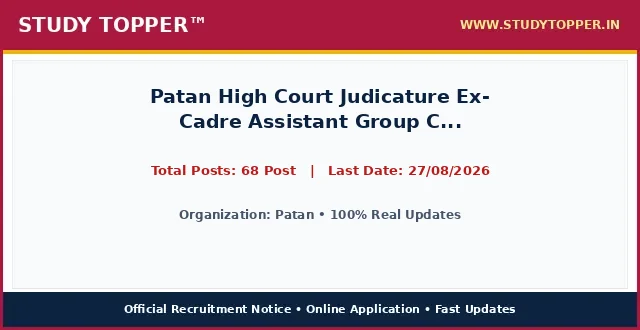
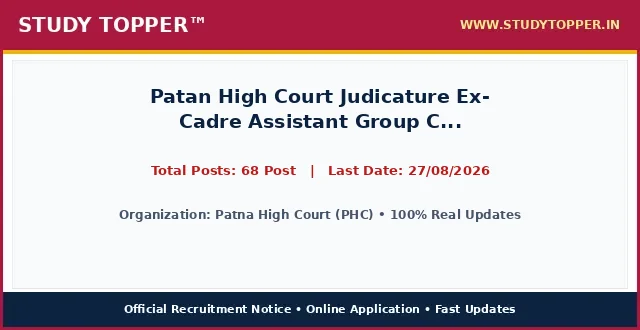
chore(lifecycle): daily auto-sort vacancies and update active dates

Changed region(s): [[0.1875, 0.6364, 0.8125, 0.6667]]

diff --git a/index.html b/index.html
@@ -1615,7 +1615,7 @@ ul.wp-block-latest-posts a:hover {
 </div></div></div>
 <div class="gb-grid-column gb-grid-column-c7488d9a"><div class="gb-container gb-container-c7488d9a"><div class="gb-inside-container">
 <p class="gb-headline gb-headline-5badebdf gb-headline-text" style="background-color:#ab183d !important; color:#ffffff !important; text-align:center; font-weight:700; padding:6px 0;">Latest Jobs</p>
-<ul class="wp-block-latest-posts__list 6colm_box wp-block-latest-posts"><li><a class="wp-block-latest-posts__post-title" href="/up-sewayojan-vibhag-mts-august26/">UP Sewayojan Vibhag Recruitment 2026 Multi Tasking Staff MTS Apply Online for 45 Post - <span class="agy-blinking-badge agy-urgent-blink">Last Date Today!</span></a></li><li><a class="wp-block-latest-posts__post-title" href="/mpesb-group-2-sub-group-4-patwari-2026/">MPESB Group-2 Sub Group-4 Patwari Recruitment 2026 - <span class="agy-blinking-badge agy-urgent-blink">1 Days Left!</span></a></li><li><a class="wp-block-latest-posts__post-title" href="/mpesb-group2-subgroup-4-aug26/">MPESB MP Group 2 Sub Group 4 Patwari and Other Post Combined Recruitment Test – 2026 Apply Online 2106 Post - <span class="agy-blinking-badge agy-urgent-blink">1 Days Left!</span></a></li><li><a class="wp-block-latest-posts__post-title" href="/atal-awasiya-lucknow-aug2026/">Uttar Pradesh UP Atal Awasiya Vidyalaya Lucknow Outsourcing Recruitment Application Form 2026 - <span class="agy-blinking-badge agy-urgent-blink">2 Days Left!</span></a></li><li><a class="wp-block-latest-posts__post-title" href="/upsssc-paramedical-fsl-15-exam-2026/">UPSSSC Forensic Science Laboratory Main Examination 2026 Apply Online for 208 Post - <span class="agy-blinking-badge agy-urgent-blink">2 Days Left!</span></a></li><li><a class="wp-block-latest-posts__post-title" href="/rcfl-management-trainee-august26/">RCFL Management Trainee Recruitment 2026 Apply Online for 94 Post - <span class="agy-blinking-badge agy-urgent-blink">2 Days Left!</span></a></li><li><a class="wp-block-latest-posts__post-title" href="/up-meerut-ecce-educator-august26/">UP Basic Education ECCE Educator Meerut Outsourcing Recruitment 2026 Apply Online For 108 Post - <span class="agy-blinking-badge agy-urgent-blink">3 Days Left!</span></a></li><li><a class="wp-block-latest-posts__post-title" href="/rvunl-june26/">Rajasthan RVUNL for JE, Junior Accountant &amp; Junior Assistant/ Commercial Assistant-II Common Recruitment 2026 Apply Online for 2005 Post - <span class="agy-blinking-badge agy-urgent-blink">3 Days Left!</span></a></li><li><a class="wp-block-latest-posts__post-title" href="/rrvunl-je-junior-assistant-2026/">RRVUNL JE, Junior Assistant Recruitment 2026 - <span class="agy-blinking-badge agy-urgent-blink">3 Days Left!</span></a></li><li><a class="wp-block-latest-posts__post-title" href="/up-bijnor-ecce-educator-july26/">Uttar Pradesh UP Basic Education Bijnor ECCE Educator Outsourcing Recruitment 2026 Apply Online For 159 Post - <span class="agy-blinking-badge agy-extended-blink">Date Extended!</span></a></li><li><a class="wp-block-latest-posts__post-title" href="/upsrtc-bus-conductor-august26/">UPSRTC उत्तर प्रदेश राज्य सड़क परिवहन निगम Bus Conductor Gonda, Bahraich, Balrampur Outsourcing Recruitment Online Form 2026</a></li><li><a class="wp-block-latest-posts__post-title" href="/sbi-clerk-backlog-aug26/">State Bank of India SBI Junior Associates Clerk Recruitment 2026 : Apply Online for 1538 Backlog Post</a></li></ul>
+<ul class="wp-block-latest-posts__list 6colm_box wp-block-latest-posts"><li><a class="wp-block-latest-posts__post-title" href="/up-sewayojan-vibhag-mts-august26/">UP Sewayojan Vibhag Recruitment 2026 Multi Tasking Staff MTS Apply Online for 45 Post - <span class="agy-blinking-badge agy-urgent-blink">Last Date Today!</span></a></li><li><a class="wp-block-latest-posts__post-title" href="/mpesb-group-2-sub-group-4-patwari-2026/">MPESB Group-2 Sub Group-4 Patwari Recruitment 2026 - <span class="agy-blinking-badge agy-urgent-blink">1 Days Left!</span></a></li><li><a class="wp-block-latest-posts__post-title" href="/mpesb-group2-subgroup-4-aug26/">MPESB MP Group 2 Sub Group 4 Patwari and Other Post Combined Recruitment Test – 2026 Apply Online 2106 Post - <span class="agy-blinking-badge agy-urgent-blink">1 Days Left!</span></a></li><li><a class="wp-block-latest-posts__post-title" href="/atal-awasiya-lucknow-aug2026/">Uttar Pradesh UP Atal Awasiya Vidyalaya Lucknow Outsourcing Recruitment Application Form 2026 - <span class="agy-blinking-badge agy-urgent-blink">2 Days Left!</span></a></li><li><a class="wp-block-latest-posts__post-title" href="/upsssc-paramedical-fsl-15-exam-2026/">UPSSSC Forensic Science Laboratory Main Examination 2026 Apply Online for 208 Post - <span class="agy-blinking-badge agy-urgent-blink">2 Days Left!</span></a></li><li><a class="wp-block-latest-posts__post-title" href="/rcfl-management-trainee-august26/">RCFL Management Trainee Recruitment 2026 Apply Online for 94 Post - <span class="agy-blinking-badge agy-urgent-blink">2 Days Left!</span></a></li><li><a class="wp-block-latest-posts__post-title" href="/up-meerut-ecce-educator-august26/">UP Basic Education ECCE Educator Meerut Outsourcing Recruitment 2026 Apply Online For 108 Post - <span class="agy-blinking-badge agy-urgent-blink">3 Days Left!</span></a></li><li><a class="wp-block-latest-posts__post-title" href="/rvunl-june26/">Rajasthan RVUNL for JE, Junior Accountant &amp; Junior Assistant/ Commercial Assistant-II Common Recruitment 2026 Apply Online for 2005 Post - <span class="agy-blinking-badge agy-urgent-blink">3 Days Left!</span></a></li><li><a class="wp-block-latest-posts__post-title" href="/rrvunl-je-junior-assistant-2026/">RRVUNL JE, Junior Assistant Recruitment 2026 - <span class="agy-blinking-badge agy-urgent-blink">3 Days Left!</span></a></li><li><a class="wp-block-latest-posts__post-title" href="/up-bijnor-ecce-educator-july26/">Uttar Pradesh UP Basic Education Bijnor ECCE Educator Outsourcing Recruitment 2026 Apply Online For 159 Post - <span class="agy-blinking-badge agy-extended-blink">Date Extended!</span></a></li><li><a class="wp-block-latest-posts__post-title" href="/upsrtc-bus-conductor-august26/">UPSRTC उत्तर प्रदेश राज्य सड़क परिवहन निगम Bus Conductor Gonda, Bahraich, Balrampur Outsourcing Recruitment Online Form 2026</a></li><li><a class="wp-block-latest-posts__post-title" href="/patna-high-court-july26/">Patan High Court Judicature Ex-Cadre Assistant Group C Recruitment 2026 Apply Online for 68 Post</a></li></ul>
 <div class="wp-block-buttons is-content-justification-right is-layout-flex wp-container-core-buttons-is-layout-89b4c9e9 wp-block-buttons-is-layout-flex">
 <div class="wp-block-button"><a class="wp-block-button__link has-base-color has-accent-2-background-color has-text-color has-background has-link-color wp-element-button" href="/latest-jobs/" rel="noreferrer noopener" target="_blank"><strong>View More</strong></a></div>
 </div>

diff --git a/pages/index.html b/pages/index.html
@@ -1615,7 +1615,7 @@ ul.wp-block-latest-posts a:hover {
 </div></div></div>
 <div class="gb-grid-column gb-grid-column-c7488d9a"><div class="gb-container gb-container-c7488d9a"><div class="gb-inside-container">
 <p class="gb-headline gb-headline-5badebdf gb-headline-text" style="background-color:#ab183d !important; color:#ffffff !important; text-align:center; font-weight:700; padding:6px 0;">Latest Jobs</p>
-<ul class="wp-block-latest-posts__list 6colm_box wp-block-latest-posts"><li><a class="wp-block-latest-posts__post-title" href="/up-sewayojan-vibhag-mts-august26/">UP Sewayojan Vibhag Recruitment 2026 Multi Tasking Staff MTS Apply Online for 45 Post - <span class="agy-blinking-badge agy-urgent-blink">Last Date Today!</span></a></li><li><a class="wp-block-latest-posts__post-title" href="/mpesb-group-2-sub-group-4-patwari-2026/">MPESB Group-2 Sub Group-4 Patwari Recruitment 2026 - <span class="agy-blinking-badge agy-urgent-blink">1 Days Left!</span></a></li><li><a class="wp-block-latest-posts__post-title" href="/mpesb-group2-subgroup-4-aug26/">MPESB MP Group 2 Sub Group 4 Patwari and Other Post Combined Recruitment Test – 2026 Apply Online 2106 Post - <span class="agy-blinking-badge agy-urgent-blink">1 Days Left!</span></a></li><li><a class="wp-block-latest-posts__post-title" href="/atal-awasiya-lucknow-aug2026/">Uttar Pradesh UP Atal Awasiya Vidyalaya Lucknow Outsourcing Recruitment Application Form 2026 - <span class="agy-blinking-badge agy-urgent-blink">2 Days Left!</span></a></li><li><a class="wp-block-latest-posts__post-title" href="/upsssc-paramedical-fsl-15-exam-2026/">UPSSSC Forensic Science Laboratory Main Examination 2026 Apply Online for 208 Post - <span class="agy-blinking-badge agy-urgent-blink">2 Days Left!</span></a></li><li><a class="wp-block-latest-posts__post-title" href="/rcfl-management-trainee-august26/">RCFL Management Trainee Recruitment 2026 Apply Online for 94 Post - <span class="agy-blinking-badge agy-urgent-blink">2 Days Left!</span></a></li><li><a class="wp-block-latest-posts__post-title" href="/up-meerut-ecce-educator-august26/">UP Basic Education ECCE Educator Meerut Outsourcing Recruitment 2026 Apply Online For 108 Post - <span class="agy-blinking-badge agy-urgent-blink">3 Days Left!</span></a></li><li><a class="wp-block-latest-posts__post-title" href="/rvunl-june26/">Rajasthan RVUNL for JE, Junior Accountant &amp; Junior Assistant/ Commercial Assistant-II Common Recruitment 2026 Apply Online for 2005 Post - <span class="agy-blinking-badge agy-urgent-blink">3 Days Left!</span></a></li><li><a class="wp-block-latest-posts__post-title" href="/rrvunl-je-junior-assistant-2026/">RRVUNL JE, Junior Assistant Recruitment 2026 - <span class="agy-blinking-badge agy-urgent-blink">3 Days Left!</span></a></li><li><a class="wp-block-latest-posts__post-title" href="/up-bijnor-ecce-educator-july26/">Uttar Pradesh UP Basic Education Bijnor ECCE Educator Outsourcing Recruitment 2026 Apply Online For 159 Post - <span class="agy-blinking-badge agy-extended-blink">Date Extended!</span></a></li><li><a class="wp-block-latest-posts__post-title" href="/upsrtc-bus-conductor-august26/">UPSRTC उत्तर प्रदेश राज्य सड़क परिवहन निगम Bus Conductor Gonda, Bahraich, Balrampur Outsourcing Recruitment Online Form 2026</a></li><li><a class="wp-block-latest-posts__post-title" href="/sbi-clerk-backlog-aug26/">State Bank of India SBI Junior Associates Clerk Recruitment 2026 : Apply Online for 1538 Backlog Post</a></li></ul>
+<ul class="wp-block-latest-posts__list 6colm_box wp-block-latest-posts"><li><a class="wp-block-latest-posts__post-title" href="/up-sewayojan-vibhag-mts-august26/">UP Sewayojan Vibhag Recruitment 2026 Multi Tasking Staff MTS Apply Online for 45 Post - <span class="agy-blinking-badge agy-urgent-blink">Last Date Today!</span></a></li><li><a class="wp-block-latest-posts__post-title" href="/mpesb-group-2-sub-group-4-patwari-2026/">MPESB Group-2 Sub Group-4 Patwari Recruitment 2026 - <span class="agy-blinking-badge agy-urgent-blink">1 Days Left!</span></a></li><li><a class="wp-block-latest-posts__post-title" href="/mpesb-group2-subgroup-4-aug26/">MPESB MP Group 2 Sub Group 4 Patwari and Other Post Combined Recruitment Test – 2026 Apply Online 2106 Post - <span class="agy-blinking-badge agy-urgent-blink">1 Days Left!</span></a></li><li><a class="wp-block-latest-posts__post-title" href="/atal-awasiya-lucknow-aug2026/">Uttar Pradesh UP Atal Awasiya Vidyalaya Lucknow Outsourcing Recruitment Application Form 2026 - <span class="agy-blinking-badge agy-urgent-blink">2 Days Left!</span></a></li><li><a class="wp-block-latest-posts__post-title" href="/upsssc-paramedical-fsl-15-exam-2026/">UPSSSC Forensic Science Laboratory Main Examination 2026 Apply Online for 208 Post - <span class="agy-blinking-badge agy-urgent-blink">2 Days Left!</span></a></li><li><a class="wp-block-latest-posts__post-title" href="/rcfl-management-trainee-august26/">RCFL Management Trainee Recruitment 2026 Apply Online for 94 Post - <span class="agy-blinking-badge agy-urgent-blink">2 Days Left!</span></a></li><li><a class="wp-block-latest-posts__post-title" href="/up-meerut-ecce-educator-august26/">UP Basic Education ECCE Educator Meerut Outsourcing Recruitment 2026 Apply Online For 108 Post - <span class="agy-blinking-badge agy-urgent-blink">3 Days Left!</span></a></li><li><a class="wp-block-latest-posts__post-title" href="/rvunl-june26/">Rajasthan RVUNL for JE, Junior Accountant &amp; Junior Assistant/ Commercial Assistant-II Common Recruitment 2026 Apply Online for 2005 Post - <span class="agy-blinking-badge agy-urgent-blink">3 Days Left!</span></a></li><li><a class="wp-block-latest-posts__post-title" href="/rrvunl-je-junior-assistant-2026/">RRVUNL JE, Junior Assistant Recruitment 2026 - <span class="agy-blinking-badge agy-urgent-blink">3 Days Left!</span></a></li><li><a class="wp-block-latest-posts__post-title" href="/up-bijnor-ecce-educator-july26/">Uttar Pradesh UP Basic Education Bijnor ECCE Educator Outsourcing Recruitment 2026 Apply Online For 159 Post - <span class="agy-blinking-badge agy-extended-blink">Date Extended!</span></a></li><li><a class="wp-block-latest-posts__post-title" href="/upsrtc-bus-conductor-august26/">UPSRTC उत्तर प्रदेश राज्य सड़क परिवहन निगम Bus Conductor Gonda, Bahraich, Balrampur Outsourcing Recruitment Online Form 2026</a></li><li><a class="wp-block-latest-posts__post-title" href="/patna-high-court-july26/">Patan High Court Judicature Ex-Cadre Assistant Group C Recruitment 2026 Apply Online for 68 Post</a></li></ul>
 <div class="wp-block-buttons is-content-justification-right is-layout-flex wp-container-core-buttons-is-layout-89b4c9e9 wp-block-buttons-is-layout-flex">
 <div class="wp-block-button"><a class="wp-block-button__link has-base-color has-accent-2-background-color has-text-color has-background has-link-color wp-element-button" href="/latest-jobs/" rel="noreferrer noopener" target="_blank"><strong>View More</strong></a></div>
 </div>

diff --git a/original_index.html b/original_index.html
@@ -1078,7 +1078,7 @@ ul.wp-block-latest-posts a:hover {
 </div></div></div>
 <div class="gb-grid-column gb-grid-column-c7488d9a"><div class="gb-container gb-container-c7488d9a"><div class="gb-inside-container">
 <p class="gb-headline gb-headline-5badebdf gb-headline-text">Latest Jobs</p>
-<ul class="wp-block-latest-posts__list 6colm_box wp-block-latest-posts"><li><a class="wp-block-latest-posts__post-title" href="/up-sewayojan-vibhag-mts-august26/">UP Sewayojan Vibhag Recruitment 2026 Multi Tasking Staff MTS Apply Online for 45 Post - <span class="agy-blinking-badge agy-urgent-blink">Last Date Today!</span></a></li><li><a class="wp-block-latest-posts__post-title" href="/mpesb-group-2-sub-group-4-patwari-2026/">MPESB Group-2 Sub Group-4 Patwari Recruitment 2026 - <span class="agy-blinking-badge agy-urgent-blink">1 Days Left!</span></a></li><li><a class="wp-block-latest-posts__post-title" href="/mpesb-group2-subgroup-4-aug26/">MPESB MP Group 2 Sub Group 4 Patwari and Other Post Combined Recruitment Test – 2026 Apply Online 2106 Post - <span class="agy-blinking-badge agy-urgent-blink">1 Days Left!</span></a></li><li><a class="wp-block-latest-posts__post-title" href="/atal-awasiya-lucknow-aug2026/">Uttar Pradesh UP Atal Awasiya Vidyalaya Lucknow Outsourcing Recruitment Application Form 2026 - <span class="agy-blinking-badge agy-urgent-blink">2 Days Left!</span></a></li><li><a class="wp-block-latest-posts__post-title" href="/upsssc-paramedical-fsl-15-exam-2026/">UPSSSC Forensic Science Laboratory Main Examination 2026 Apply Online for 208 Post - <span class="agy-blinking-badge agy-urgent-blink">2 Days Left!</span></a></li><li><a class="wp-block-latest-posts__post-title" href="/rcfl-management-trainee-august26/">RCFL Management Trainee Recruitment 2026 Apply Online for 94 Post - <span class="agy-blinking-badge agy-urgent-blink">2 Days Left!</span></a></li><li><a class="wp-block-latest-posts__post-title" href="/up-meerut-ecce-educator-august26/">UP Basic Education ECCE Educator Meerut Outsourcing Recruitment 2026 Apply Online For 108 Post - <span class="agy-blinking-badge agy-urgent-blink">3 Days Left!</span></a></li><li><a class="wp-block-latest-posts__post-title" href="/rvunl-june26/">Rajasthan RVUNL for JE, Junior Accountant &amp; Junior Assistant/ Commercial Assistant-II Common Recruitment 2026 Apply Online for 2005 Post - <span class="agy-blinking-badge agy-urgent-blink">3 Days Left!</span></a></li><li><a class="wp-block-latest-posts__post-title" href="/rrvunl-je-junior-assistant-2026/">RRVUNL JE, Junior Assistant Recruitment 2026 - <span class="agy-blinking-badge agy-urgent-blink">3 Days Left!</span></a></li><li><a class="wp-block-latest-posts__post-title" href="/up-bijnor-ecce-educator-july26/">Uttar Pradesh UP Basic Education Bijnor ECCE Educator Outsourcing Recruitment 2026 Apply Online For 159 Post - <span class="agy-blinking-badge agy-extended-blink">Date Extended!</span></a></li><li><a class="wp-block-latest-posts__post-title" href="/upsrtc-bus-conductor-august26/">UPSRTC उत्तर प्रदेश राज्य सड़क परिवहन निगम Bus Conductor Gonda, Bahraich, Balrampur Outsourcing Recruitment Online Form 2026</a></li><li><a class="wp-block-latest-posts__post-title" href="/sbi-clerk-backlog-aug26/">State Bank of India SBI Junior Associates Clerk Recruitment 2026 : Apply Online for 1538 Backlog Post</a></li></ul>
+<ul class="wp-block-latest-posts__list 6colm_box wp-block-latest-posts"><li><a class="wp-block-latest-posts__post-title" href="/up-sewayojan-vibhag-mts-august26/">UP Sewayojan Vibhag Recruitment 2026 Multi Tasking Staff MTS Apply Online for 45 Post - <span class="agy-blinking-badge agy-urgent-blink">Last Date Today!</span></a></li><li><a class="wp-block-latest-posts__post-title" href="/mpesb-group-2-sub-group-4-patwari-2026/">MPESB Group-2 Sub Group-4 Patwari Recruitment 2026 - <span class="agy-blinking-badge agy-urgent-blink">1 Days Left!</span></a></li><li><a class="wp-block-latest-posts__post-title" href="/mpesb-group2-subgroup-4-aug26/">MPESB MP Group 2 Sub Group 4 Patwari and Other Post Combined Recruitment Test – 2026 Apply Online 2106 Post - <span class="agy-blinking-badge agy-urgent-blink">1 Days Left!</span></a></li><li><a class="wp-block-latest-posts__post-title" href="/atal-awasiya-lucknow-aug2026/">Uttar Pradesh UP Atal Awasiya Vidyalaya Lucknow Outsourcing Recruitment Application Form 2026 - <span class="agy-blinking-badge agy-urgent-blink">2 Days Left!</span></a></li><li><a class="wp-block-latest-posts__post-title" href="/upsssc-paramedical-fsl-15-exam-2026/">UPSSSC Forensic Science Laboratory Main Examination 2026 Apply Online for 208 Post - <span class="agy-blinking-badge agy-urgent-blink">2 Days Left!</span></a></li><li><a class="wp-block-latest-posts__post-title" href="/rcfl-management-trainee-august26/">RCFL Management Trainee Recruitment 2026 Apply Online for 94 Post - <span class="agy-blinking-badge agy-urgent-blink">2 Days Left!</span></a></li><li><a class="wp-block-latest-posts__post-title" href="/up-meerut-ecce-educator-august26/">UP Basic Education ECCE Educator Meerut Outsourcing Recruitment 2026 Apply Online For 108 Post - <span class="agy-blinking-badge agy-urgent-blink">3 Days Left!</span></a></li><li><a class="wp-block-latest-posts__post-title" href="/rvunl-june26/">Rajasthan RVUNL for JE, Junior Accountant &amp; Junior Assistant/ Commercial Assistant-II Common Recruitment 2026 Apply Online for 2005 Post - <span class="agy-blinking-badge agy-urgent-blink">3 Days Left!</span></a></li><li><a class="wp-block-latest-posts__post-title" href="/rrvunl-je-junior-assistant-2026/">RRVUNL JE, Junior Assistant Recruitment 2026 - <span class="agy-blinking-badge agy-urgent-blink">3 Days Left!</span></a></li><li><a class="wp-block-latest-posts__post-title" href="/up-bijnor-ecce-educator-july26/">Uttar Pradesh UP Basic Education Bijnor ECCE Educator Outsourcing Recruitment 2026 Apply Online For 159 Post - <span class="agy-blinking-badge agy-extended-blink">Date Extended!</span></a></li><li><a class="wp-block-latest-posts__post-title" href="/upsrtc-bus-conductor-august26/">UPSRTC उत्तर प्रदेश राज्य सड़क परिवहन निगम Bus Conductor Gonda, Bahraich, Balrampur Outsourcing Recruitment Online Form 2026</a></li><li><a class="wp-block-latest-posts__post-title" href="/patna-high-court-july26/">Patan High Court Judicature Ex-Cadre Assistant Group C Recruitment 2026 Apply Online for 68 Post</a></li></ul>
 <div class="wp-block-buttons is-content-justification-right is-layout-flex wp-container-core-buttons-is-layout-89b4c9e9 wp-block-buttons-is-layout-flex">
 <div class="wp-block-button"><a class="wp-block-button__link has-base-color has-accent-2-background-color has-text-color has-background has-link-color wp-element-button" href="/latest-jobs/" rel="noreferrer noopener" target="_blank"><strong>View More</strong></a></div>
 </div>

diff --git a/pages/patna-high-court-july26.html b/pages/patna-high-court-july26.html
@@ -987,8 +987,8 @@ ul.wp-block-latest-posts a:hover {
 <main class="site-main" id="main">
 <div class="gb-container gb-container-b39c368c">
 <h1 class="gb-headline gb-headline-e52a0102 gb-headline-text" style="font-size: 22px; font-weight: 700; color: #0000cd; text-align: left; margin: 8px 0 4px 0; line-height: 1.3; width: 100%; font-family: '-apple-system, BlinkMacSystemFont, 'Segoe UI', Roboto, 'Helvetica Neue', Arial, sans-serif', Times, serif, Hind, sans-serif;">Patan High Court Judicature Ex-Cadre Assistant Group C Recruitment 2026 Apply Online for 68 Post</h1>
-<div class="gb-container gb-container-659bd175"><p style="color: #cd0808; font-weight: 700; font-size: 15px; margin: 2px 0 7px 0; text-align: left; font-family: '-apple-system, BlinkMacSystemFont, 'Segoe UI', Roboto, 'Helvetica Neue', Arial, sans-serif', Times, serif, Hind, sans-serif;">Post Date: August 22, 2026 12:37 PM</p></div>
-<p class="gb-headline gb-headline-550ae316 short_Details gb-headline-text" style="width: 100%; max-width: 100%; font-size: 16.8px; line-height: 1.55; color: #000000; text-align: justify; text-justify: inter-word; margin: 8px 0 14px 0; display: block; font-family: '-apple-system, BlinkMacSystemFont, 'Segoe UI', Roboto, 'Helvetica Neue', Arial, sans-serif', Times, serif, Hind, sans-serif;"><strong style="color: #0000cd;">Patna High Court (PHC)</strong> has officially published the recruitment notice <strong style="color: #cd0808;">Patan High Court Judicature Ex-Cadre Assistant Group C Recruitment 2026 Apply Online for 68 Post</strong> under notification number 2026. Online applications are invited for 68 Post across multiple departments and cadre positions. Interested candidates possessing the requisite educational qualifications and falling between 18 Years to 40 Years can complete their online registration before the application deadline of 27/08/2026. Applicants should read the eligibility criteria, category reservation rules, and exam scheme thoroughly before submitting applications.</p>
+<div class="gb-container gb-container-659bd175"><p style="color: #cd0808; font-weight: 700; font-size: 15px; margin: 2px 0 7px 0; text-align: left; font-family: '-apple-system, BlinkMacSystemFont, 'Segoe UI', Roboto, 'Helvetica Neue', Arial, sans-serif', Times, serif, Hind, sans-serif;">Post Date: August 22, 2026 12:47 PM</p></div>
+<p class="gb-headline gb-headline-550ae316 short_Details gb-headline-text" style="width: 100%; max-width: 100%; font-size: 16.8px; line-height: 1.55; color: #000000; text-align: justify; text-justify: inter-word; margin: 8px 0 14px 0; display: block; font-family: '-apple-system, BlinkMacSystemFont, 'Segoe UI', Roboto, 'Helvetica Neue', Arial, sans-serif', Times, serif, Hind, sans-serif;"><strong style="color: #0000cd;">Patna High Court (PHC)</strong> has officially published the recruitment notice <strong style="color: #cd0808;">Patan High Court Judicature Ex-Cadre Assistant Group C Recruitment 2026 Apply Online for 68 Post</strong> under notification number Official Notification 2026. Online applications are invited for 68 Post across multiple departments and cadre positions. Interested candidates possessing the requisite educational qualifications and falling between 18 Years to 40 Years can complete their online registration before the application deadline of 27/08/2026. Applicants should read the eligibility criteria, category reservation rules, and exam scheme thoroughly before submitting applications.</p>
 <div class="gb-container gb-container-9849916c"><div class="social-buttons-compact" style="display: flex; justify-content: flex-start; align-items: center; gap: 10px; margin: 10px 0 16px 0; width: 100%;"><a class="social-btn-compact wa" href="https://whatsapp.com/channel/0029Va9xyz" rel="noopener" style="background-color: #00d084; color: #ffffff; padding: 10px 18px; border-radius: 4px; text-decoration: none; font-weight: bold; font-size: 15.5px; display: inline-flex; align-items: center; justify-content: center; height: auto;" target="_blank">WhatsApp</a><a class="social-btn-compact tg" href="https://t.me/studytopperofficial" rel="noopener" style="background-color: #0088cc; color: #ffffff; padding: 10px 18px; border-radius: 4px; text-decoration: none; font-weight: bold; font-size: 15.5px; display: inline-flex; align-items: center; justify-content: center; height: auto;" target="_blank">Telegram</a></div></div>
 <div class="gb-container gb-container-f58e6ca1" style="border: 2px solid #5b032f; border-radius: 4px; overflow: hidden; margin: 15px 0 20px 0; background-color: #ffffff; width: 100%; box-sizing: border-box;">
 <h2 class="gb-headline gb-headline-2ca5a791 gb-headline-text" style="font-size: 16px; font-weight: 700; text-align: center; color: #ef0303; line-height: 1.3; padding: 6px 4px; margin: 0; background: #ffffff; font-family: '-apple-system, BlinkMacSystemFont, 'Segoe UI', Roboto, 'Helvetica Neue', Arial, sans-serif', Times, serif, Hind, sans-serif;">Patan High Court Judicature Ex-Cadre Assistant Group C Recruitment 2026 Apply Online for 68 Post &ndash; Latest Details &amp; Updates</h2>
